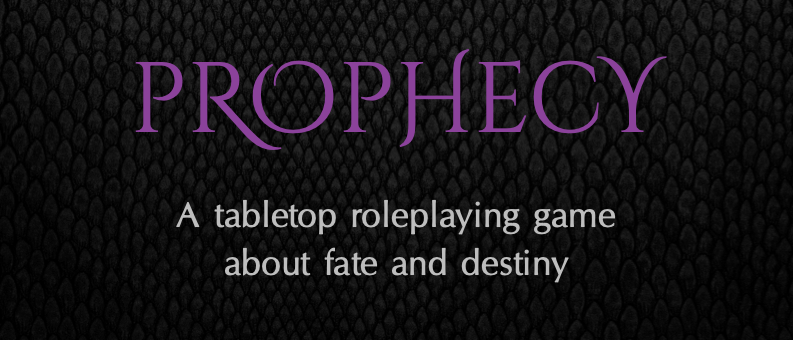
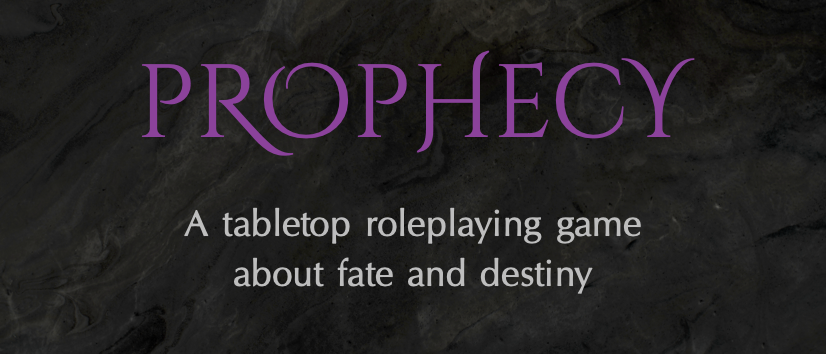
More fiddling with the rules.

diff --git a/calling_card.tex b/calling_card.tex
@@ -6,7 +6,7 @@
 \usepackage{fontspec}
 \begin{document}
 \begin{tikzpicture}
-	\path[fill overzoom image=Images/black_scales_texture.png] (-3.5,-2.125) rectangle (3.5,0.875);
+	\path[fill overzoom image=Images/black_marble_texture.png] (-3.5,-2.125) rectangle (3.5,0.875);
 	
     \setmainfont{Cinzel Decorative}
 	\node[text centered] (title) at (0,0) {\textcolor{violet!75}{\Huge{pROpHecY}}};

diff --git a/README.md b/README.md
@@ -3,9 +3,12 @@ Prophecy is a tabletop roleplaying game about fate and destiny.
 During the game, the players receive a prophecy that describes an impending catastrophe for some fictional world.
 They create characters who inhabit that world, write an outline that describes how their characters will try to prevent the catastrophe, and tell the story of their characters' adventures.
 
-## Mechanics
-Throughout these rules, a variety of common terms are used to describe how the game is played.
+Throughout these rules, a variety of common words are used as technical terms to describe how the game is played.
 These terms will be Capitalised when they appear in the text and _Italicised_ when they are first introduced.
+
+## Mechanics    
+_Mechanics_ are the systems that govern how players interact with the game.
+They provide a way for players to describe a fictional world by populating it with [Objects and Aspects](#objects-and-aspects), compose a story set in that world that is comprised of [Scenes](#scenes), and decide how that story plays out by making [Checks](#checks).
 
 ### Objects and Aspects
 An _Object_ is a person, place, or thing that appears in the story.
@@ -43,11 +46,11 @@ Every Scene has the following components:
 The Characters want to cross the border between two neighbouring kingdoms. It is dusk when they make their way to a "Remote" border crossing on the outskirts of a small town. The border is patrolled by a detachment of soldiers from the "Local Militia". The soldier on duty when the Characters arrive is well-known in town to have a "Sterling Reputation". The guards are on "High Alert" and it will be fairly difficult for the Characters to convince the guard on duty to let them through the checkpoint. The Difficulty Rating of the scene is _d = 3_. -->
 
 #### Sketching Scenes
-The players _Sketch_ Scenes when they [Write an Outline](#write-an-outline) describing the how the Characters will try to prevent the impending catastrophe. To Sketch a Scene, the players will establish the Setting, define the Objective, and assign the Difficulty Rating for the Scene.
+The players _Sketch_ Scenes when they [Write an Outline](#write-an-outline) describing the how the Characters will try to prevent the impending catastrophe. To Sketch a Scene the players will establish the Setting, define the Objective, and assign the Difficulty Rating for the Scene.
 
 #### Performing Scenes
 The players _Perform_ Scenes when they [Tell the Story](#tell-the-story) of the Characters' adventures.
-To Perform a Scene, the players will describe what happens during the Scene, determine the Outcome of the Scene (see [Checks](#checks)), and describe the narrative consequences of the Characters' actions.
+To Perform a Scene the players will describe what happens during the Scene, determine the Outcome of the Scene (see [Checks](#checks)), and describe the narrative consequences of the Characters' actions.
 
 ### Checks
 The players make a _Check_ to determine the Outcome of each Scene. To make a Check, the players will:
@@ -80,14 +83,16 @@ The Result of this roll is five Hits.
 This Result exceeds the Difficulty Rating of the Scene so the Outcome of the Check is a Success.    -->
 
 ## Gameplay
-The game is divided into four phases: Receive a Prophecy, Create Characters, Write an Outline, and Tell the Story.
-During the first three phases the players will determine their Characters' fate.
-In the fourth phase, the players will determine their Characters' destiny.
+The game is divided into four phases.
+The first three phases are about fate.
+The players will [Receive a Prophecy](#receive-a-prophecy) that describes an impending catastrophe for some fictional world, [Create Characters](#create-characters) who inhabit that world, and [Write an Outline](#write-an-outline) of the story that they will tell about those characters.
+The fourth phase is about destiny.
+The players will [Tell the Story](#tell-the-story) of the Characters' adventures and discover how that story ends.
 
 ### Receive a Prophecy
-During this phase, the players receive a prophecy that describes a catastrophe that is destined to wreak havoc on some fictional world.
+During this phase, the players receive a _Prophecy_ that describes a _Catastrophe_ that is destined to wreak havoc on some fictional world.
 
-To Receive a Prophecy the players describe the the world in which the story is set and the nature of the catastrophe.
+To Receive a Prophecy the players describe the the world in which the story is set and the nature of the Catastrophe.
 The players should create a situation that the Characters will be able to affect, but doing so will be both difficult and dangerous.
 
 <!-- To Receive the Prophecy, the Players will roll a six-sided die (1d6) to select a random Genre from the [Genre Table](#genre-table) and then roll a six-sided die (1d6) to select a random Catastrophe from the [Catastrophe Table](#catastrophe-table).
@@ -127,15 +132,15 @@ To Create Characters, each player will first choose a name for their Character a
 During the game additional Aspects can be Attached to a Character and existing Aspects can be modified to reflect how a Character changes in response to the events that occur as the players [Tell the Story](#tell-the-story).
 
 ### Write an Outline
-During this phase, the players will write an outline that describes how their Characters will try to prevent the prophesied catastrophe.
+During this phase, the players will write an _Outline_ that describes how their Characters will try to prevent the Catastrophe.
 The Outline describes a collection of Scenes that are arranged in a hierarchical tree-like structure.
 
-To Write an Outline, the players will first Sketch a Scene called the finale.
-The finale will be the last Scene that the players Perform when they [Tell the Story](#tell-the-story).
-The Objective of the finale should describe how the Characters intend to prevent the catastrophe.
-The Difficulty Rating of the finale is always _d = 4_.
+To Write an Outline, the players will first Sketch a Scene called the _Finale_.
+The Finale will be the last Scene that the players Perform when they [Tell the Story](#tell-the-story).
+The Objective of the Finale should describe how the Characters intend to prevent the Catastrophe.
+The Difficulty Rating of the Finale is always _d = 4_.
 
-Then, the Players will Sketch additional Scenes that describe the events that will lead to the finale.
+Then, the Players will Sketch additional Scenes that describe the events that will lead to the Finale.
 Each new Scene must be a Precursor of an existing Scene.
 That is, accomplishing the Objective of the new Scene must make it easier for the Characters to accomplish the Objective in the existing Scene.
 The Difficulty Rating of the new Scene is always one less than that of the existing Scene and must be greater than zero.
@@ -157,7 +162,7 @@ graph TB;
 --- -->
 
 ### Tell the Story
-During this phase, the players will tell the story of their Characters' adventures as they try to enact their plan to prevent the prophesied catastrophe.
+During this phase, the players will tell the story of their Characters' adventures as they try to enact their plan to prevent the Catastrophe.
 
 To Tell the Story, the players will Perform the Scenes described in the Outline. A Scene cannot be Performed until after all of its Precursors have been Performed. Other than this restriction, however, the Scenes can be Performed in any order.
 

diff --git a/framing_questions.md b/framing_questions.md
@@ -33,3 +33,16 @@
   17. __Where does your game take the players that other games can’t, don’t, or won’t?__
   18. __What are your publishing goals for your game?__
   19. __Who is your target audience?__
+
+## Board Game Equity Pyramid
+
+  - __Game Title__
+     - __Why?__
+        - __Core Fantasy__ - The compelling experience you want your players to have.
+     - __How?__
+        - __Theme: Tone__ - Adjectives that capture the tone of your game.
+        - __Gameplay: Structure__ - A description of the type of game the players should expect.
+     - __What?__
+        - __Theme: Setting/Story__ - Highlights from the world that you're inviting the player to inhabit.
+        - __Gameplay: Hooks__ - The unique or iconic mechanics that set your game apart.
+  - __Notes__ - 
